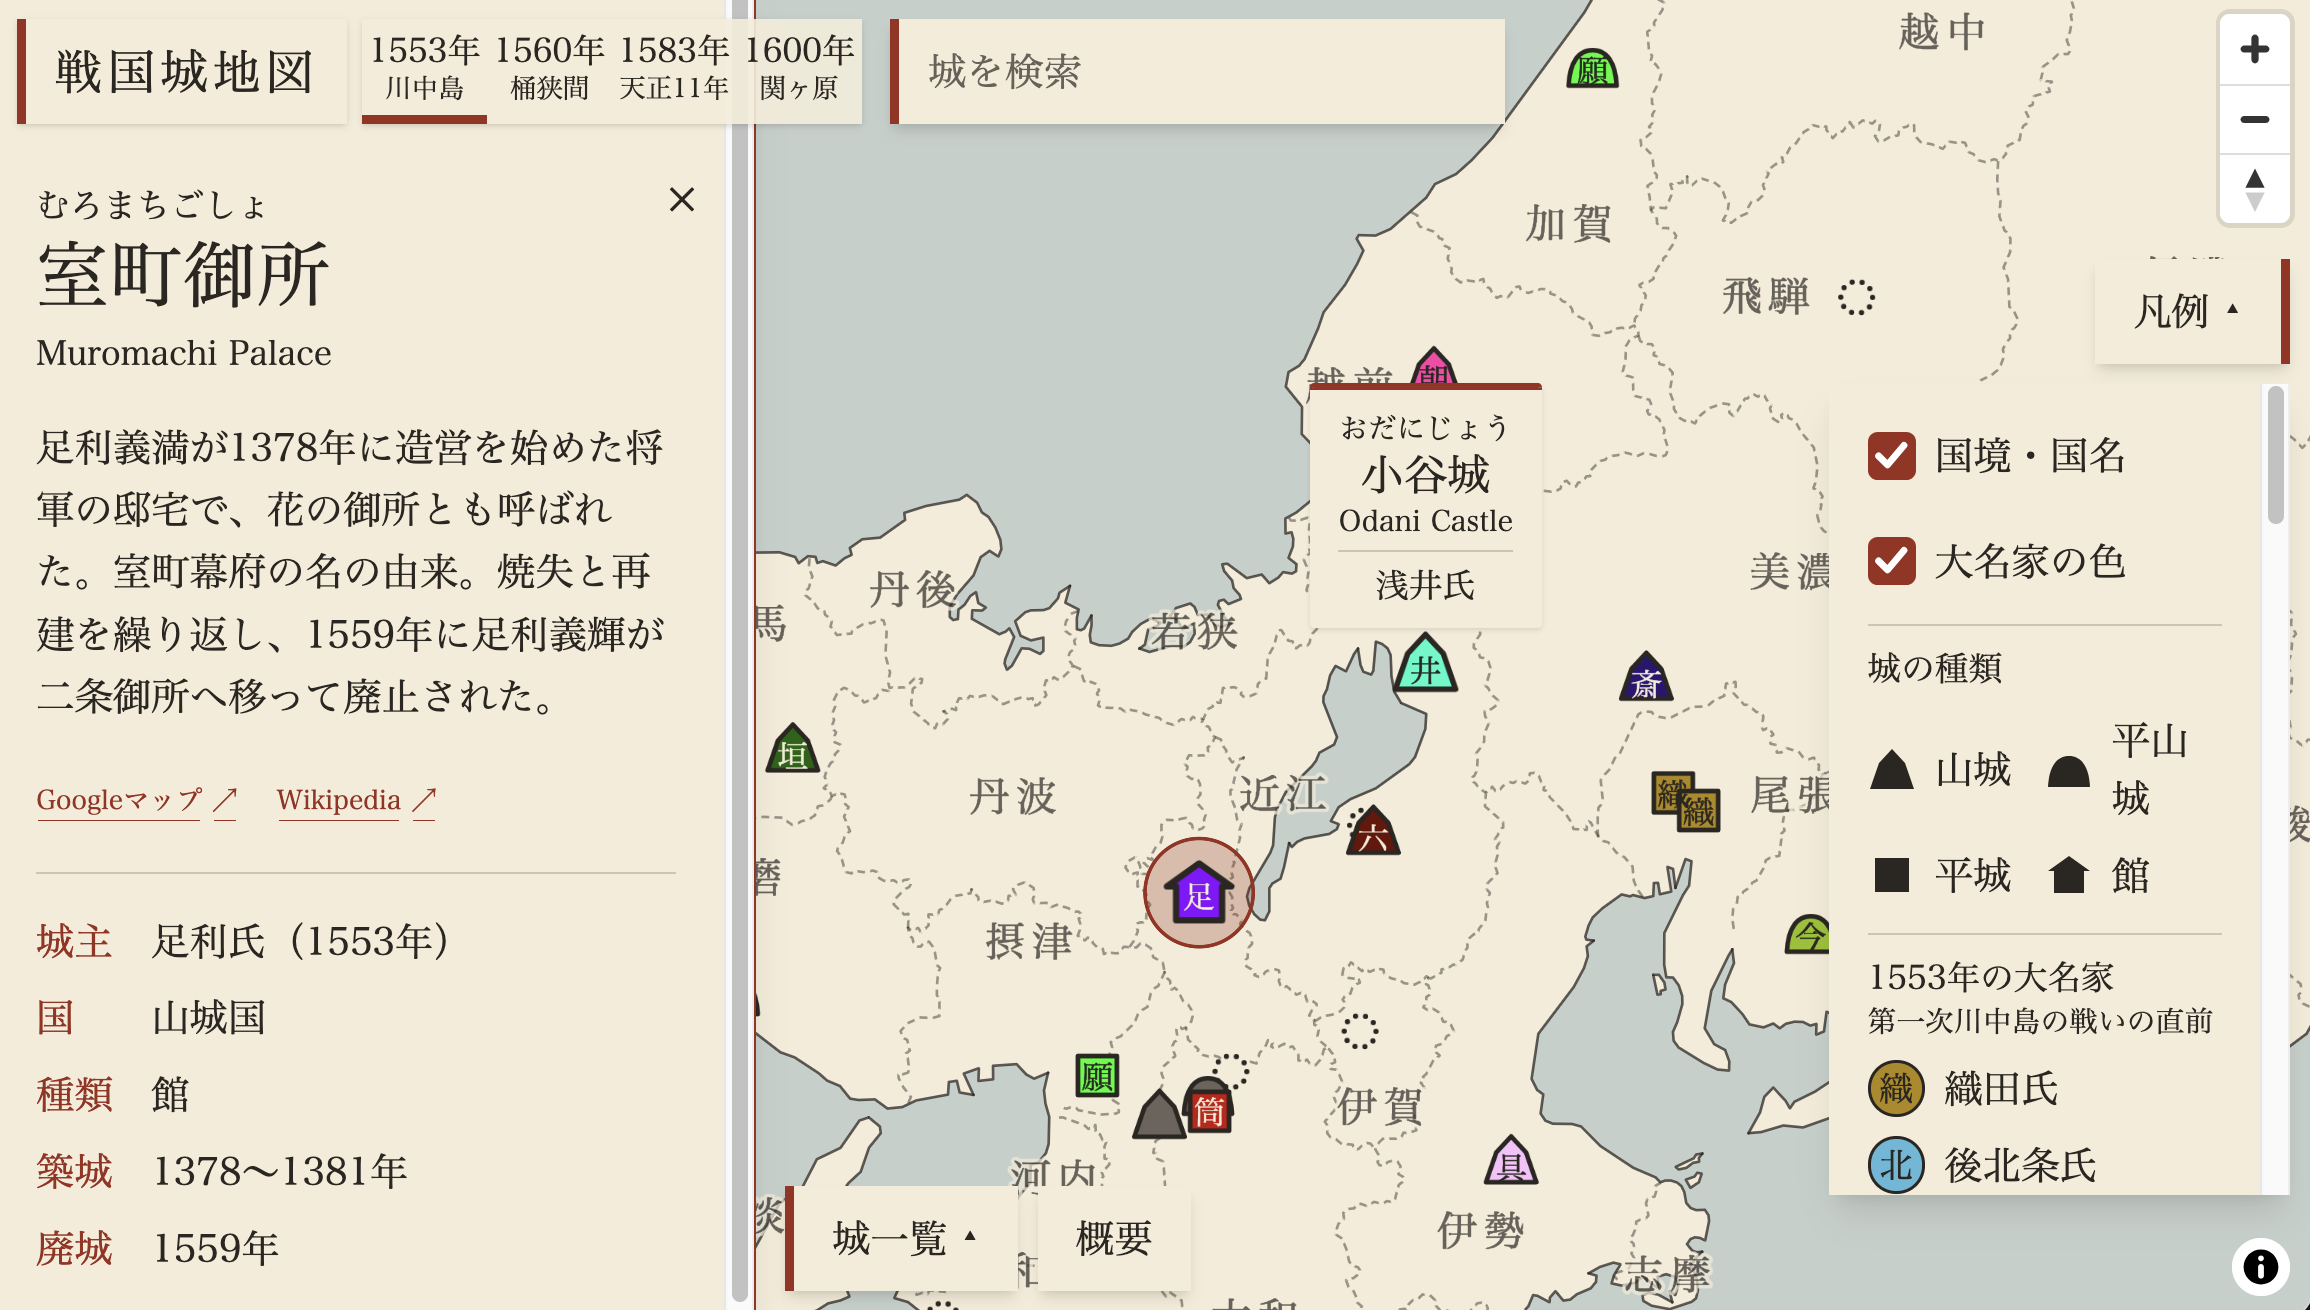
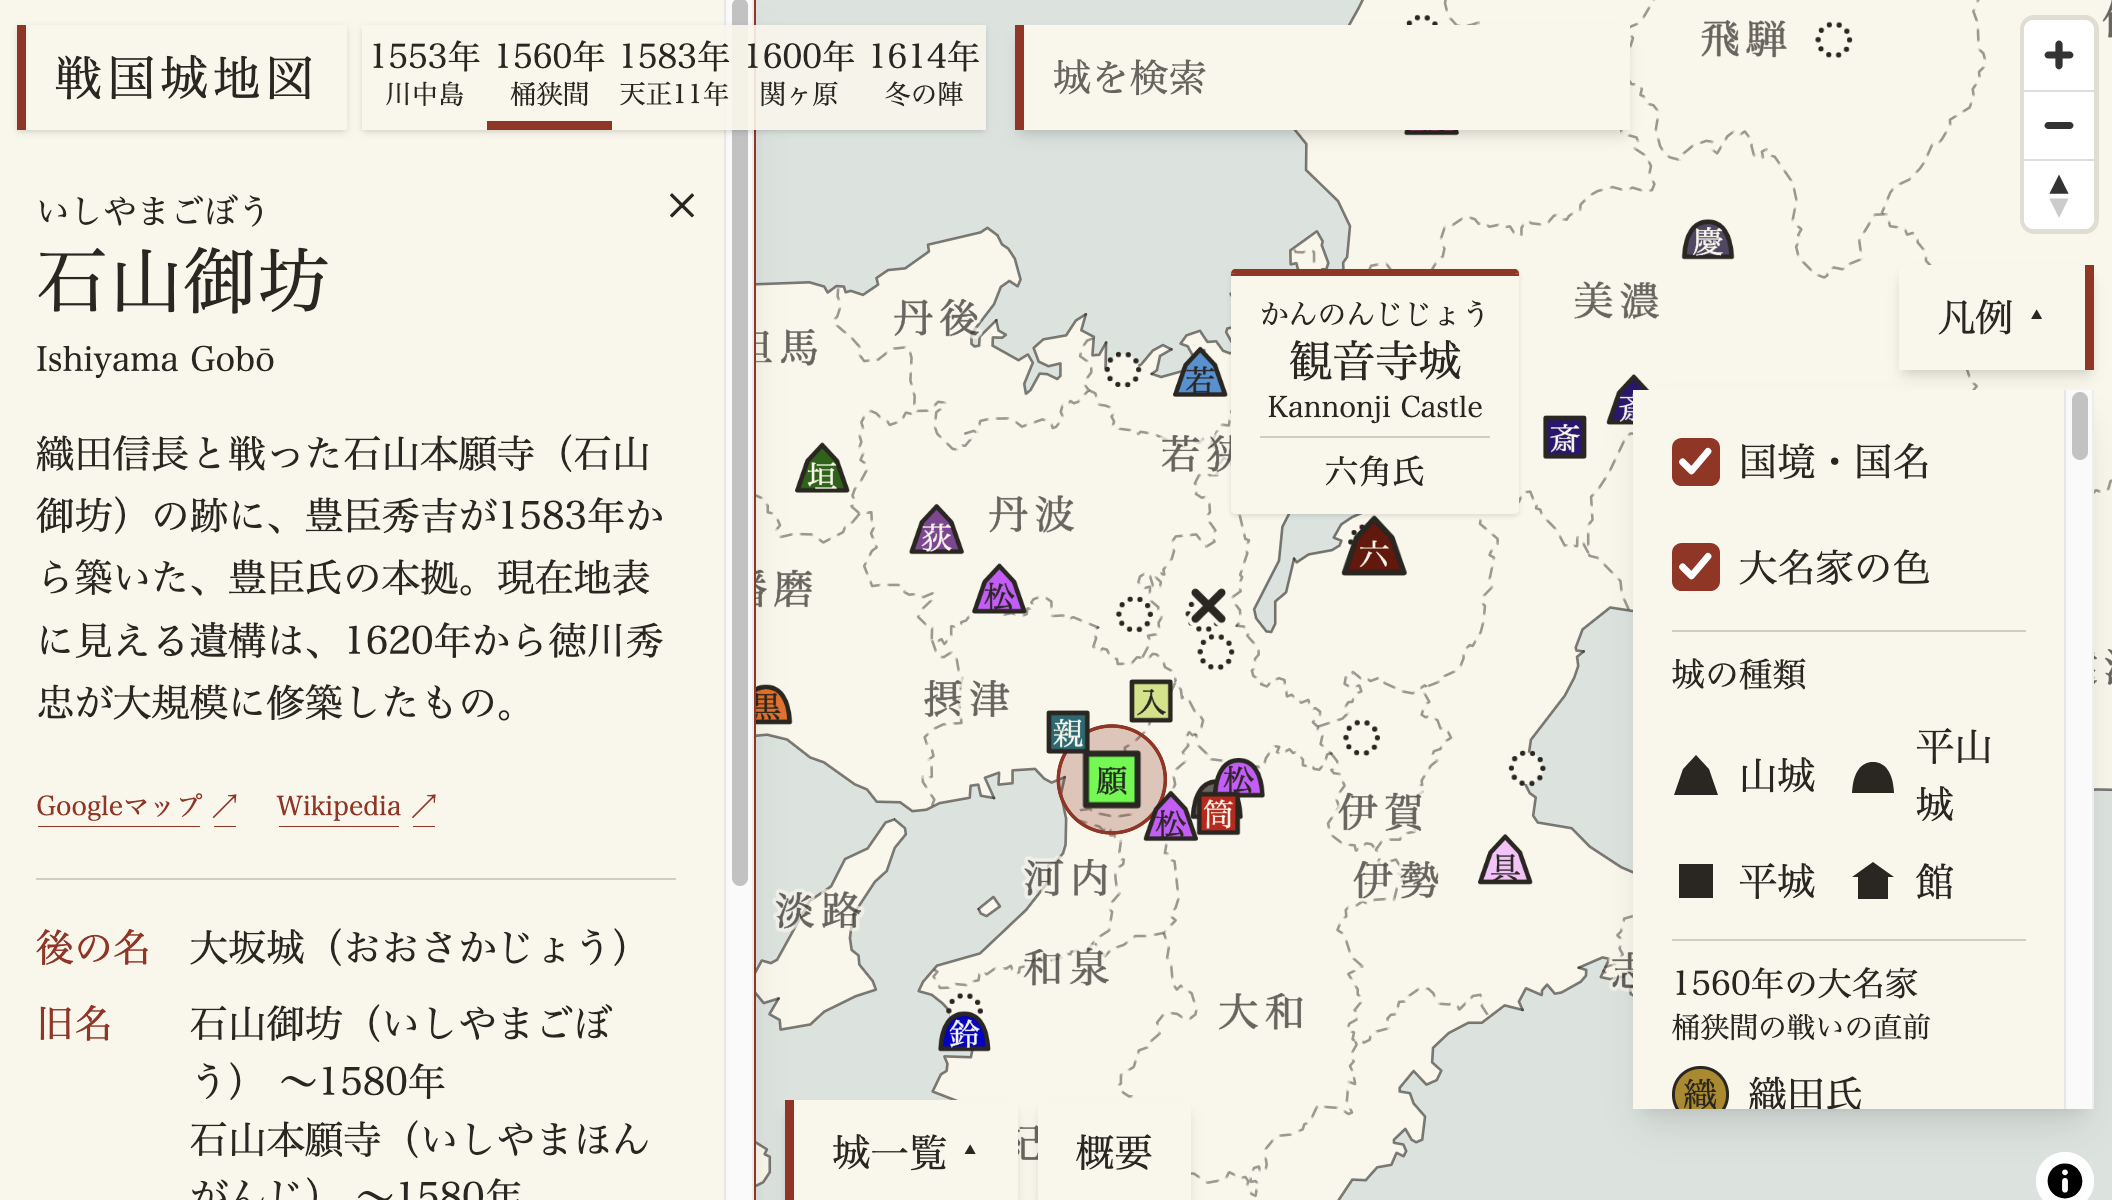
docs(readme): replace the screenshot

diff --git a/README.en.md b/README.en.md
@@ -6,7 +6,7 @@ An interactive map of 戦国時代 Japan for finding and exploring castles.
 
 **Live site: <https://roymwxuk.github.io/mwx-sengoku-app/>**
 
-[![The app showing central Japan in 1553, with 室町御所 in the detail panel](docs/app-screenshot.png)](https://roymwxuk.github.io/mwx-sengoku-app/)
+[![The app showing central Japan in 1560, with 石山御坊 (later 大坂城) in the detail panel](docs/app-screenshot.png)](https://roymwxuk.github.io/mwx-sengoku-app/)
 
 Links can open a castle or a year directly, e.g. [吉田郡山城](https://roymwxuk.github.io/mwx-sengoku-app/?castle=yoshida-koriyama), [大坂城 in 1560 (石山御坊)](https://roymwxuk.github.io/mwx-sengoku-app/?castle=osaka&year=1560) or [Japan in 1614](https://roymwxuk.github.io/mwx-sengoku-app/?year=1614).
 

diff --git a/README.md b/README.md
@@ -6,7 +6,7 @@
 
 **公開サイト: <https://roymwxuk.github.io/mwx-sengoku-app/>**
 
-[![戦国城地図の画面: 1553年の畿内周辺。詳細パネルに室町御所を表示](docs/app-screenshot.png)](https://roymwxuk.github.io/mwx-sengoku-app/)
+[![戦国城地図の画面: 1560年の畿内周辺。詳細パネルに石山御坊（のちの大坂城）を表示](docs/app-screenshot.png)](https://roymwxuk.github.io/mwx-sengoku-app/)
 
 城や年を直接開くリンクも使えます（例: [吉田郡山城](https://roymwxuk.github.io/mwx-sengoku-app/?castle=yoshida-koriyama)、[1560年の大坂城（石山御坊）](https://roymwxuk.github.io/mwx-sengoku-app/?castle=osaka&year=1560)、[1614年の日本](https://roymwxuk.github.io/mwx-sengoku-app/?year=1614)）。
 
